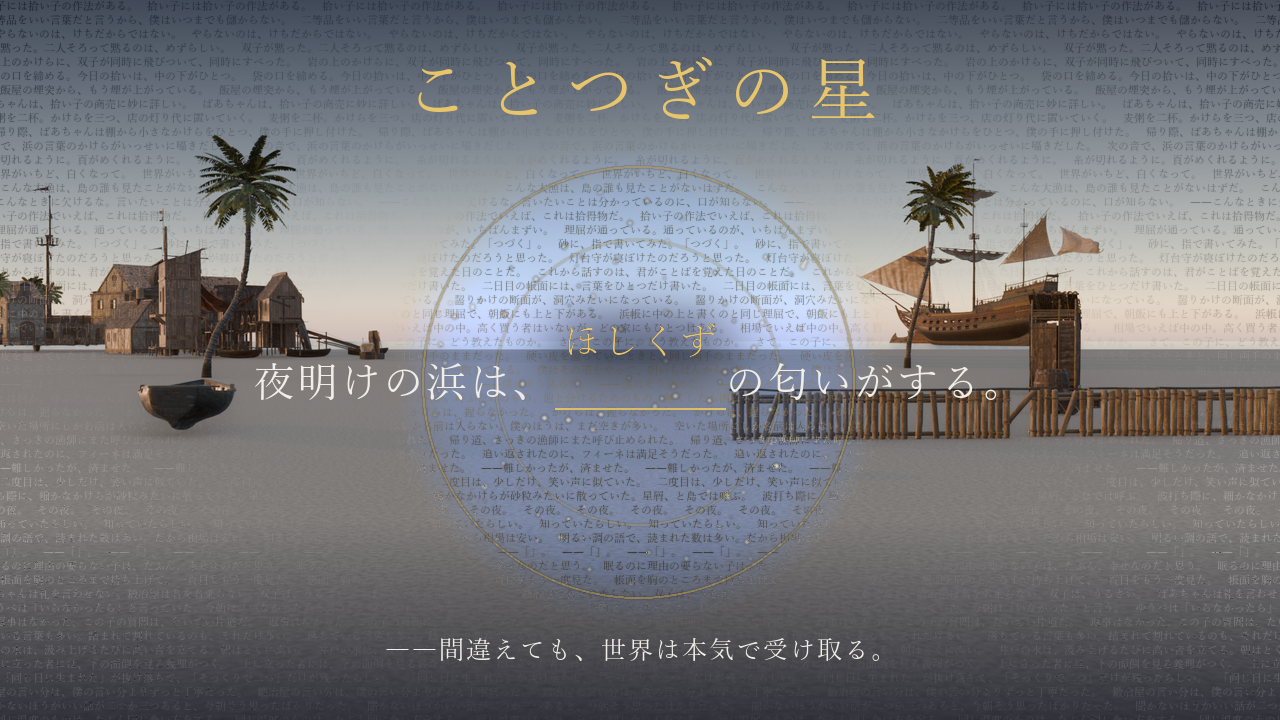
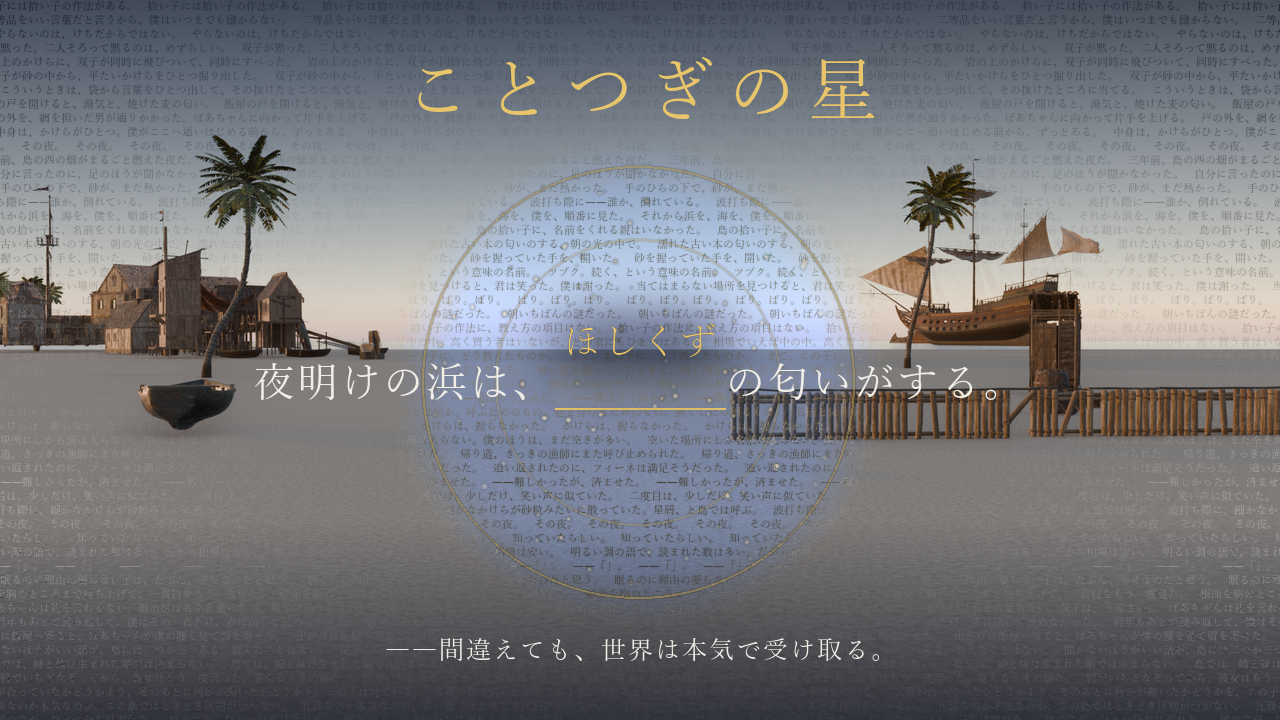
feat(kototsugi): deploy the word-built key visual and the wide island gallery

diff --git a/kototsugi/index.html b/kototsugi/index.html
@@ -12,53 +12,6 @@
 <meta property="og:image" content="https://yuichi916.github.io/kototsugi/thumb.png">
 <meta name="twitter:card" content="summary_large_image">
 <meta name="twitter:image" content="https://yuichi916.github.io/kototsugi/thumb.png">
-<link rel="canonical" href="https://yuichi916.github.io/kototsugi/">
-
-<!-- Structured Data -->
-<script type="application/ld+json">
-{
-  "@context": "https://schema.org",
-  "@graph": [
-    {
-      "@type": "VideoGame",
-      "@id": "https://yuichi916.github.io/kototsugi/game/#game",
-      "name": "ことつぎの星",
-      "alternateName": "Kototsugi: Star of Words",
-      "url": "https://yuichi916.github.io/kototsugi/game/",
-      "description": "星が堕ち、言葉のかけらが浜に打ち上がる島で、拾った言葉を文章の欠けに継ぎ、物語を編み直すブラウザサウンドノベルゲーム。",
-      "inLanguage": "ja-JP",
-      "genre": ["Interactive fiction", "Sound novel", "Word game"],
-      "playMode": "SinglePlayer",
-      "applicationCategory": "Game",
-      "operatingSystem": "Web browser",
-      "isAccessibleForFree": true,
-      "image": "https://yuichi916.github.io/kototsugi/thumb.png",
-      "author": {
-        "@type": "Person",
-        "name": "yuichi916",
-        "url": "https://yuichi916.github.io/"
-      }
-    },
-    {
-      "@type": "BreadcrumbList",
-      "itemListElement": [
-        {
-          "@type": "ListItem",
-          "position": 1,
-          "name": "ホーム",
-          "item": "https://yuichi916.github.io/"
-        },
-        {
-          "@type": "ListItem",
-          "position": 2,
-          "name": "ことつぎの星 公式紹介",
-          "item": "https://yuichi916.github.io/kototsugi/"
-        }
-      ]
-    }
-  ]
-}
-</script>
 <style>
   :root{
     --bg:#070b18; --bg2:#0d1428; --ink:#e8e6df; --dim:#9aa3b8;
@@ -182,7 +135,7 @@
 
   /* ── キービジュアル ──
      絵は最後に届いてよい。題字と惹句は絵を待たずに出る（枠の高さは比率で先に取ってある）。 */
-  .kv{max-width:830px;margin:0 auto 8px}
+  .kv{position:relative;left:50%;transform:translateX(-50%);width:min(1180px,94vw);margin:0 auto 8px}
   .kv-frame{position:relative;aspect-ratio:16/9;border-radius:6px;overflow:hidden;background:#0a1020}
   .kv-frame img{width:100%;height:100%;object-fit:cover;display:block;animation:kvin 2.2s ease both}
   @keyframes kvin{from{opacity:0}to{opacity:1}}
@@ -190,15 +143,18 @@
     background:linear-gradient(180deg,rgba(0,0,0,0),var(--bg))}
   /* ── 挿絵 ── */
   .evcg{max-width:660px;margin:32px auto}
-  .evcg img{width:100%;aspect-ratio:16/9;object-fit:cover;display:block;border-radius:6px;
+  .evcg img{width:100%;height:auto;aspect-ratio:16/9;object-fit:cover;display:block;border-radius:6px;
     background:#0a1020;border:1px solid var(--line)}
   .evcg figcaption{margin-top:11px;text-align:center;font-size:.8rem;color:var(--dim);letter-spacing:.1em}
   /* ── 島のかたち（背景ギャラリー） ── */
   .mech{max-width:820px;margin:0 auto 26px}
-  .places{display:grid;grid-template-columns:repeat(auto-fit,minmax(420px,1fr));gap:18px}
-  @media(min-width:1500px){.places{grid-template-columns:repeat(3,1fr)}}
+  /* 島の絵は横長なので、升目に割ると一枚あたりが小さくなってどこの絵か分からない。
+     頁は 900px 上限だが、この節だけ幅を破って、一段に一枚ずつ大きく見せる。 */
+  #world-sec{position:relative;left:50%;transform:translateX(-50%);width:min(1240px,94vw)}
+  .places{display:grid;grid-template-columns:1fr;gap:22px}
+  @media(min-width:1180px){.places{grid-template-columns:repeat(2,1fr)}}
   .place{background:var(--bg2);border:1px solid var(--line);border-radius:6px;overflow:hidden}
-  .place img{width:100%;aspect-ratio:16/9;object-fit:cover;display:block;background:#0a1020}
+  .place img{width:100%;height:auto;aspect-ratio:16/9;object-fit:cover;display:block;background:#0a1020}
   /* 島の地形は横に長い。升目を小さく割ると、どこの絵なのか分からなくなる。 */
   .place figcaption{padding:14px 16px 17px}
   .place b{display:block;font-weight:600;color:var(--gold);font-size:.9rem;letter-spacing:.13em;margin-bottom:7px}
@@ -252,7 +208,7 @@
   <div class="kv">
     <div class="kv-frame">
       <img src="promo/cg_key_visual.webp" width="1920" height="1080" decoding="async" fetchpriority="high"
-           alt="夜明けの浜。ひとりの少女が、まだ残る星を見上げて両手をひろげている。">
+           alt="空が、この物語の地の文そのもので組まれている。少女の立つところだけが絵として残り、左上の一行には欠けが開いていて、そこへ「ことば」が置かれようとしている。">
     </div>
   </div>
   <div class="label">SOUND NOVEL PROJECT — 公式紹介</div>
